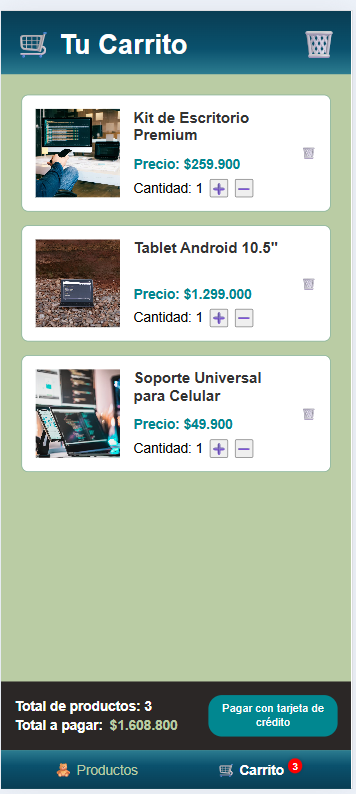
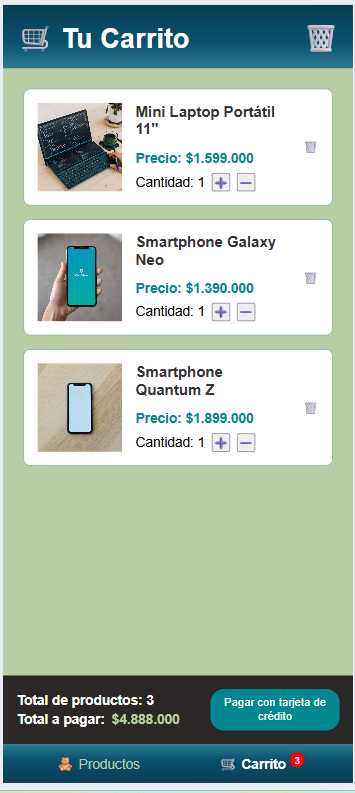
products dummy. update assest readme

diff --git a/backend/src/app.module.ts b/backend/src/app.module.ts
@@ -1,4 +1,4 @@
-import { Module } from '@nestjs/common';
+import { Module, OnModuleInit } from '@nestjs/common';
 import { ConfigModule } from '@nestjs/config';
 import { TypeOrmModule } from '@nestjs/typeorm';
 
@@ -82,4 +82,161 @@ import { DeliveryRepository } from './domain/delivery/delivery.repository';
     },
   ],
 })
-export class AppModule { }
+export class AppModule implements OnModuleInit {
+  constructor(private readonly dataSource: ProductRepository) { }
+
+  async onModuleInit() {
+    const productRepository = await this.dataSource.findAll();
+    const count = productRepository.length;
+
+    if (count === 0) {
+      const mockProducts: Partial<Product>[] = [
+        {
+          name: 'Kit de Escritorio Premium',
+          description: 'Conjunto de escritorio con estilo moderno: teclado, libreta, gafas y más.',
+          price: 259900,
+          stock: 38,
+          imageUrl: 'https://plus.unsplash.com/premium_photo-1664297844174-d7dfb8d0e7f1?q=80&w=2070&auto=format&fit=crop&ixlib=rb-4.1.0&ixid=M3wxMjA3fDB8MHxwaG90by1wYWdlfHx8fGVufDB8fHx8fA%3D%3D',
+        },
+        {
+          name: 'Portátil HP ProBook 450',
+          description: 'Laptop profesional con gran rendimiento para trabajo diario.',
+          price: 2899000,
+          stock: 15,
+          imageUrl: 'https://images.unsplash.com/photo-1585076641399-5c06d1b3365f?q=80&w=1170&auto=format&fit=crop&ixlib=rb-4.1.0&ixid=M3wxMjA3fDB8MHxwaG90by1wYWdlfHx8fGVufDB8fHx8fA%3D%3D',
+        },
+        {
+          name: 'Tablet Android 10.5"',
+          description: 'Pantalla amplia, gran fluidez y batería duradera para todo uso.',
+          price: 1299000,
+          stock: 22,
+          imageUrl: 'https://images.unsplash.com/photo-1662116137257-6e5793c365ec?q=80&w=1170&auto=format&fit=crop&ixlib=rb-4.1.0&ixid=M3wxMjA3fDB8MHxwaG90by1wYWdlfHx8fGVufDB8fHx8fA%3D%3D',
+        },
+        {
+          name: 'Soporte Universal para Celular',
+          description: 'Ideal para videollamadas o visualización cómoda de contenido.',
+          price: 49900,
+          stock: 57,
+          imageUrl: 'https://images.unsplash.com/photo-1603969072881-b0fc7f3d77d7?q=80&w=1170&auto=format&fit=crop&ixlib=rb-4.1.0&ixid=M3wxMjA3fDB8MHxwaG90by1wYWdlfHx8fGVufDB8fHx8fA%3D%3D',
+        },
+        {
+          name: 'MacBook Pro Retina',
+          description: 'Rendimiento y elegancia con la pantalla Retina más avanzada.',
+          price: 6799000,
+          stock: 7,
+          imageUrl: 'https://images.unsplash.com/photo-1484417894907-623942c8ee29?q=80&w=1332&auto=format&fit=crop&ixlib=rb-4.1.0&ixid=M3wxMjA3fDB8MHxwaG90by1wYWdlfHx8fGVufDB8fHx8fA%3D%3D',
+        },
+        {
+          name: 'Kit Tecnológico 3 en 1',
+          description: 'Tecnología portátil: adaptador, audífonos y memoria USB.',
+          price: 89900,
+          stock: 33,
+          imageUrl: 'https://images.unsplash.com/photo-1656680715953-75d4bbcbb839?q=80&w=1170&auto=format&fit=crop&ixlib=rb-4.1.0&ixid=M3wxMjA3fDB8MHxwaG90by1wYWdlfHx8fGVufDB8fHx8fA%3D%3D',
+        },
+        {
+          name: 'Mini Laptop Portátil 11"',
+          description: 'Diseño compacto con alto rendimiento, ideal para estudiantes.',
+          price: 1599000,
+          stock: 12,
+          imageUrl: 'https://plus.unsplash.com/premium_photo-1678565869434-c81195861939?q=80&w=2070&auto=format&fit=crop&ixlib=rb-4.1.0&ixid=M3wxMjA3fDB8MHxwaG90by1wYWdlfHx8fGVufDB8fHx8fA%3D%3D',
+        },
+        {
+          name: 'Smartphone Android X1',
+          description: 'Potente y elegante con cámara de alta resolución.',
+          price: 1120000,
+          stock: 29,
+          imageUrl: 'https://images.unsplash.com/photo-1511707171634-5f897ff02aa9?q=80&w=880&auto=format&fit=crop&ixlib=rb-4.1.0&ixid=M3wxMjA3fDB8MHxwaG90by1wYWdlfHx8fGVufDB8fHx8fA%3D%3D',
+        },
+        {
+          name: 'Smartphone Galaxy Neo',
+          description: 'Pantalla nítida, gran rendimiento y batería de larga duración.',
+          price: 1390000,
+          stock: 24,
+          imageUrl: 'https://images.unsplash.com/photo-1529653762956-b0a27278529c?q=80&w=1171&auto=format&fit=crop&ixlib=rb-4.1.0&ixid=M3wxMjA3fDB8MHxwaG90by1wYWdlfHx8fGVufDB8fHx8fA%3D%3D',
+        },
+        {
+          name: 'Smartphone Quantum Z',
+          description: 'Triple cámara, alto rendimiento y pantalla inmersiva.',
+          price: 1899000,
+          stock: 17,
+          imageUrl: 'https://images.unsplash.com/photo-1585060544812-6b45742d762f?q=80&w=1181&auto=format&fit=crop&ixlib=rb-4.1.0&ixid=M3wxMjA3fDB8MHxwaG90by1wYWdlfHx8fGVufDB8fHx8fA%3D%3D',
+        },
+        {
+          name: 'Teclado Inalámbrico Slim',
+          description: 'Diseño moderno, compacto y silencioso para trabajar cómodo.',
+          price: 119900,
+          stock: 42,
+          imageUrl: 'https://images.unsplash.com/photo-1618384887929-16ec33fab9ef?q=80&w=2080&auto=format&fit=crop&ixlib=rb-4.1.0&ixid=M3wxMjA3fDB8MHxwaG90by1wYWdlfHx8fGVufDB8fHx8fA%3D%3D',
+        },
+        {
+          name: 'Teclado Mecánico RGB',
+          description: 'Ideal para gamers: respuesta rápida, retroiluminación y durabilidad.',
+          price: 189000,
+          stock: 35,
+          imageUrl: 'https://images.unsplash.com/photo-1627827964356-a9c2f262fd64?q=80&w=1145&auto=format&fit=crop&ixlib=rb-4.1.0&ixid=M3wxMjA3fDB8MHxwaG90by1wYWdlfHx8fGVufDB8fHx8fA%3D%3D',
+        },
+        {
+          name: 'Combo Teclado + Mouse',
+          description: 'Conjunto ergonómico para oficina o estudio, conexión inalámbrica.',
+          price: 159900,
+          stock: 28,
+          imageUrl: 'http://images.unsplash.com/photo-1718372146650-798b9fb23573?q=80&w=1074&auto=format&fit=crop&ixlib=rb-4.1.0&ixid=M3wxMjA3fDB8MHxwaG90by1wYWdlfHx8fGVufDB8fHx8fA%3D%3D',
+        },
+        {
+          name: 'Mouse Óptico HP',
+          description: 'Diseño ergonómico, alta precisión y conexión USB.',
+          price: 49900,
+          stock: 60,
+          imageUrl: 'https://images.unsplash.com/photo-1527864550417-7fd91fc51a46?q=80&w=2067&auto=format&fit=crop&ixlib=rb-4.1.0&ixid=M3wxMjA3fDB8MHxwaG90by1wYWdlfHx8fGVufDB8fHx8fA%3D%3D',
+        },
+        {
+          name: 'Mouse Inalámbrico Logitech',
+          description: 'Conexión por USB, cómodo para uso diario.',
+          price: 69900,
+          stock: 48,
+          imageUrl: 'https://images.unsplash.com/photo-1605773527852-c546a8584ea3?q=80&w=1974&auto=format&fit=crop&ixlib=rb-4.1.0&ixid=M3wxMjA3fDB8MHxwaG90by1wYWdlfHx8fGVufDB8fHx8fA%3D%3D',
+        },
+        {
+          name: 'Mouse Gamer RGB',
+          description: 'Diseñado para precisión extrema en juegos, retroiluminado.',
+          price: 129900,
+          stock: 20,
+          imageUrl: 'https://plus.unsplash.com/premium_photo-1671611822374-4719df5c89bb?q=80&w=687&auto=format&fit=crop&ixlib=rb-4.1.0&ixid=M3wxMjA3fDB8MHxwaG90by1wYWdlfHx8fGVufDB8fHx8fA%3D%3D',
+        },
+        {
+          name: 'Mouse Negro Clásico USB',
+          description: 'Sencillo, resistente y compatible con cualquier equipo.',
+          price: 29900,
+          stock: 90,
+          imageUrl: 'https://images.unsplash.com/photo-1615663245857-ac93bb7c39e7?q=80&w=765&auto=format&fit=crop&ixlib=rb-4.1.0&ixid=M3wxMjA3fDB8MHxwaG90by1wYWdlfHx8fGVufDB8fHx8fA%3D%3D',
+        },
+        {
+          name: 'Memoria USB 64GB',
+          description: 'Rápida y compacta, ideal para llevar archivos donde sea.',
+          price: 44900,
+          stock: 85,
+          imageUrl: 'https://images.unsplash.com/photo-1587145820098-23e484e69816?q=80&w=2080&auto=format&fit=crop&ixlib=rb-4.1.0&ixid=M3wxMjA3fDB8MHxwaG90by1wYWdlfHx8fGVufDB8fHx8fA%3D%3D',
+        },
+        {
+          name: 'Cable USB Tipo-C',
+          description: 'Carga rápida y transferencia de datos para dispositivos modernos.',
+          price: 29900,
+          stock: 102,
+          imageUrl: 'https://plus.unsplash.com/premium_photo-1669262667978-5d4aafe29dd5?q=80&w=715&auto=format&fit=crop&ixlib=rb-4.1.0&ixid=M3wxMjA3fDB8MHxwaG90by1wYWdlfHx8fGVufDB8fHx8fA%3D%3D',
+        },
+        {
+          name: 'Monitor LED 24" FHD',
+          description: 'Alta definición, ideal para trabajo o entretenimiento.',
+          price: 549000,
+          stock: 19,
+          imageUrl: 'https://images.unsplash.com/photo-1547658718-1cdaa0852790?q=80&w=764&auto=format&fit=crop&ixlib=rb-4.1.0&ixid=M3wxMjA3fDB8MHxwaG90by1wYWdlfHx8fGVufDB8fHx8fA%3D%3D',
+        },
+      ];
+
+      await this.dataSource.preloadData(mockProducts as Product[]);
+      console.log('🌱 Productos de ejemplo insertados con éxito');
+    } else {
+      console.log(`ℹ La tabla ya contiene ${count} productos. Seed no ejecutado.`);
+    }
+  }
+}

diff --git a/README.md b/README.md
@@ -7,14 +7,32 @@ A modern, responsive single-page application (SPA) for purchasing tech products 
 
 ## 📸 Screenshots
 
-### 📦 Product List
+### 🛒 Product List
 ![Product List](./assets/products.png)
 
-### 🛍 Cart View
+### 🧺 Cart View
 ![Cart](./assets/cart.png)
 
-### 💳 Credit Card Payment Modal
-![Payment Form](./assets/payment.png)
+### 💳 Card Information Input
+![Card Data](./assets/cardData.png)
+
+### 📦 Delivery Information Form
+![Destinatary Data](./assets/destinataryData.png)
+
+### 🧾 Payment Summary View
+![Summary](./assets/summary.png)
+
+### ⏳ Payment Loading State
+![Loading](./assets/loading.png)
+
+### ✅ Successful Payment Confirmation
+![Success](./assets/success.png)
+
+### ❌ Payment Failure State
+![Error Payment](./assets/errorPayment.png)
+
+### ⚠ Incomplete Payment Attempt
+![Payment Incomplete](./assets/paymentIncomplete.png)
 
 ---
 
